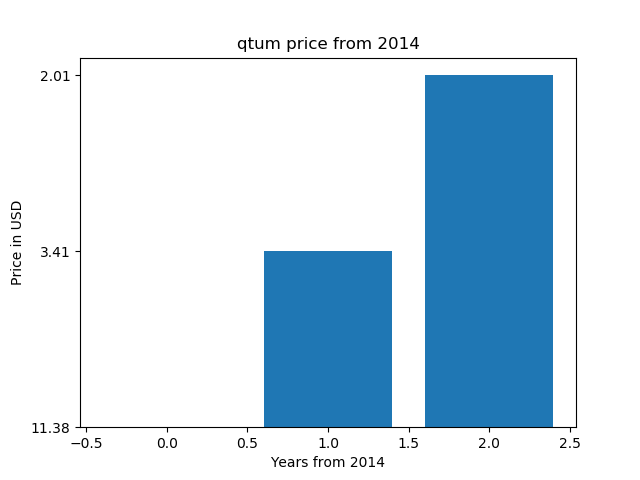
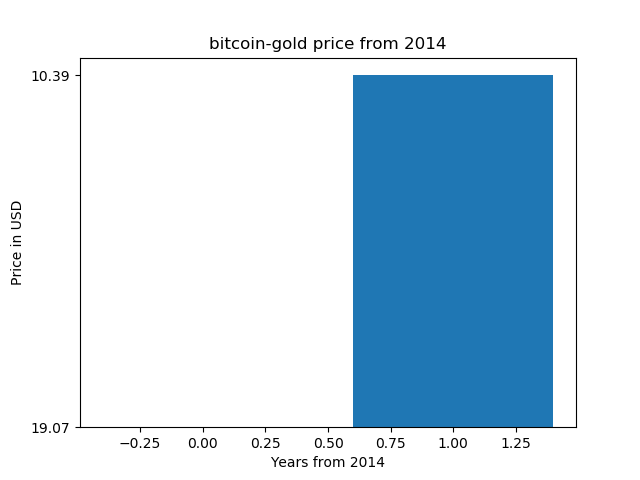
first commit

diff --git a/example.py b/example.py
@@ -10,7 +10,7 @@ from time import gmtime, strftime
 import matplotlib.pyplot as plt
 
 enddate = strftime("%Y%m%d", gmtime())
-r  = requests.get("https://coinmarketcap.com/currencies/qtum/historical-data/?start=20140101&end={0}".format(enddate))
+r  = requests.get("https://coinmarketcap.com/currencies/bitcoin-gold/historical-data/?start=20140101&end={0}".format(enddate))
 data = r.text
 
 soup = BeautifulSoup(data, "html.parser")
@@ -37,7 +37,7 @@ print(prices)
 
 x = list(range(0, len(prices)))
 
-plt.title('qtum price from 2014')
+plt.title('bitcoin-gold price from 2014')
 plt.ylabel('Price in USD')
 plt.xlabel('Years from 2014')
 plt.bar(x, prices)

diff --git a/README.md b/README.md
@@ -1,6 +1,6 @@
-# qtum price chart 
+# bitcoin-gold price chart 
 
-qtum price chart (matplotlib, python)
+bitcoin-gold price chart (matplotlib, python)
 
 https://pythonprogramminglanguage.com
 
